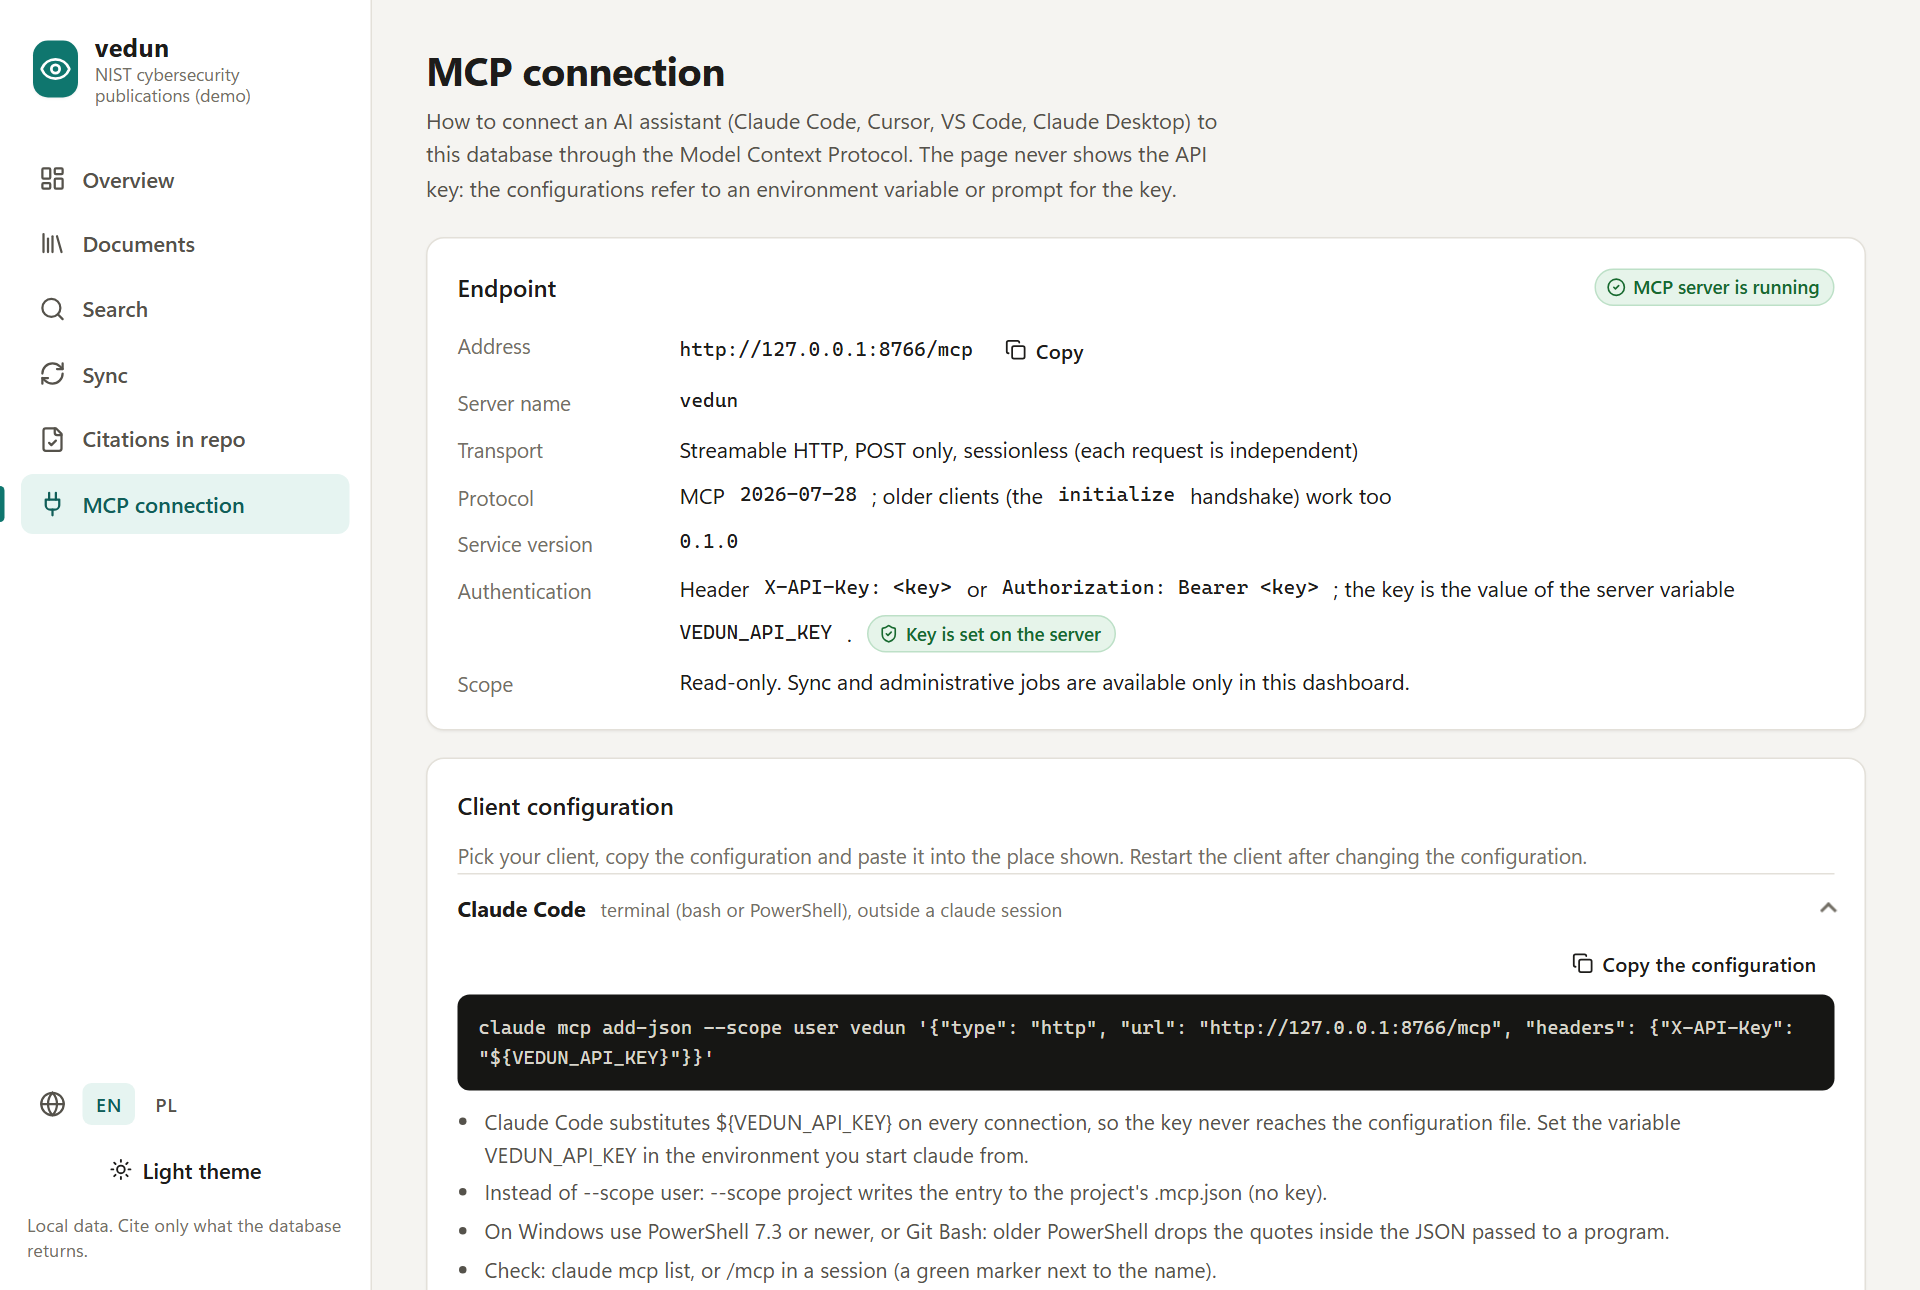
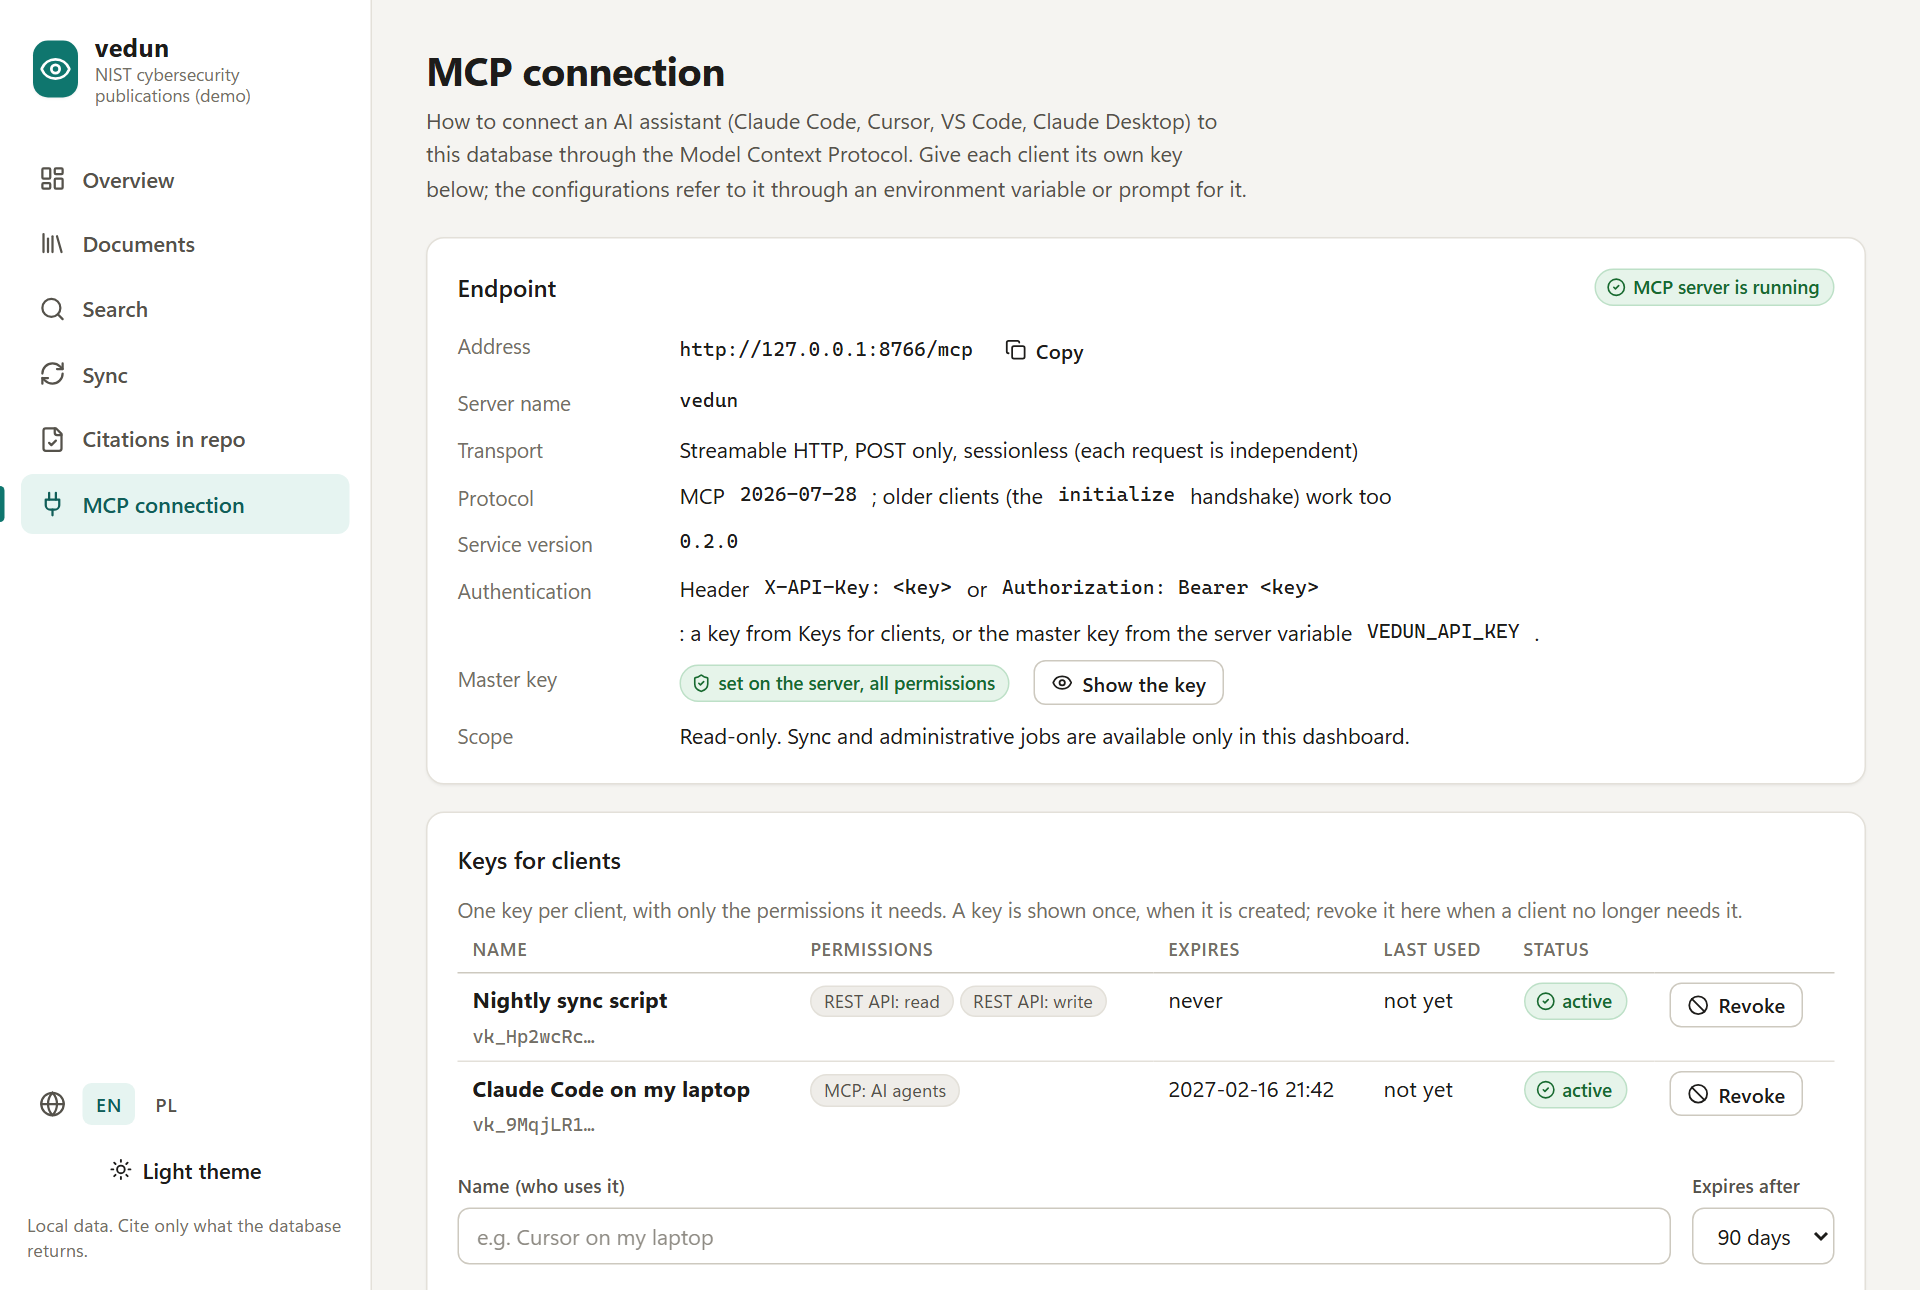
docs(readme): MCP page screenshot shows the 0.2 client keys (#33)

diff --git a/README.md b/README.md
@@ -27,7 +27,7 @@ edition, and a quote can be checked against the PDF before it goes into a mail o
   <tr>
     <td width="33%"><a href="docs/images/lookup.png"><img src="docs/images/lookup.png" alt="Exact lookup by clause number"></a></td>
     <td width="33%"><a href="docs/images/overview.png"><img src="docs/images/overview.png" alt="Overview of the knowledge base"></a></td>
-    <td width="33%"><a href="docs/images/connect.png"><img src="docs/images/connect.png" alt="MCP connection settings for AI agents"></a></td>
+    <td width="33%"><a href="docs/images/connect.png"><img src="docs/images/connect.png" alt="MCP connection: endpoint, master key on request and keys for clients with permissions"></a></td>
   </tr>
   <tr>
     <td><b>Exact lookup</b>: a clause by its number, with its edition and citation</td>
